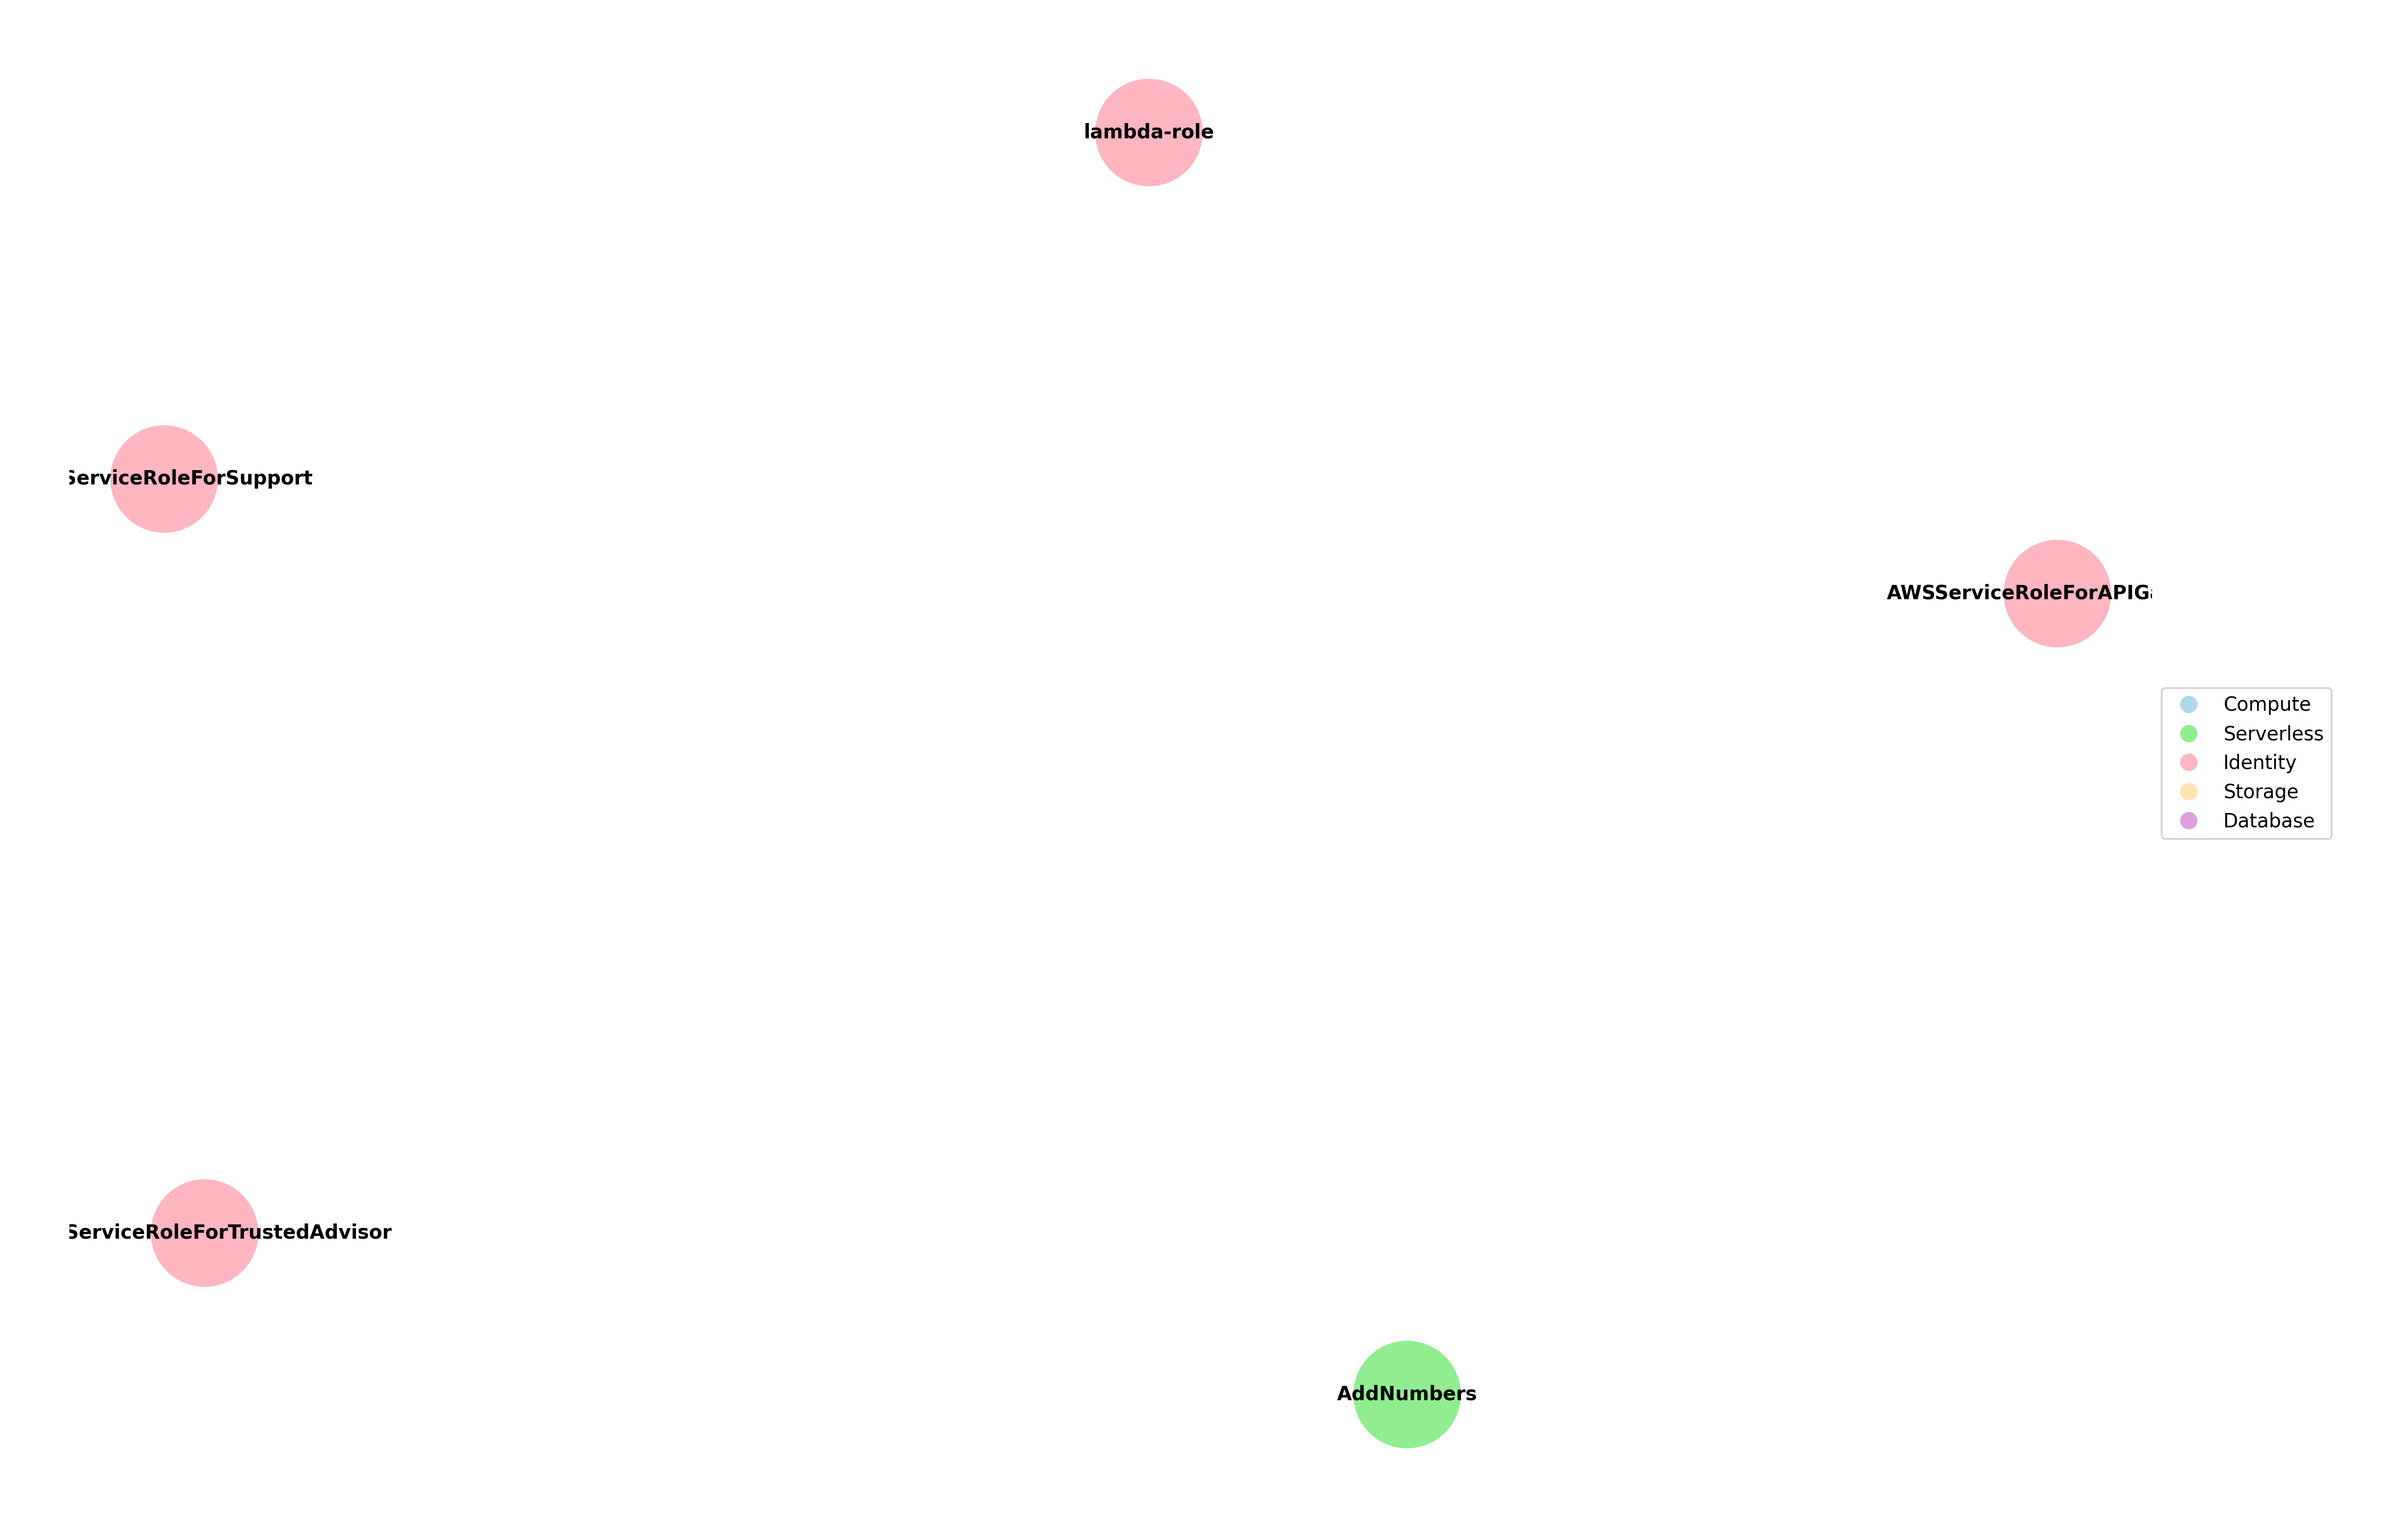
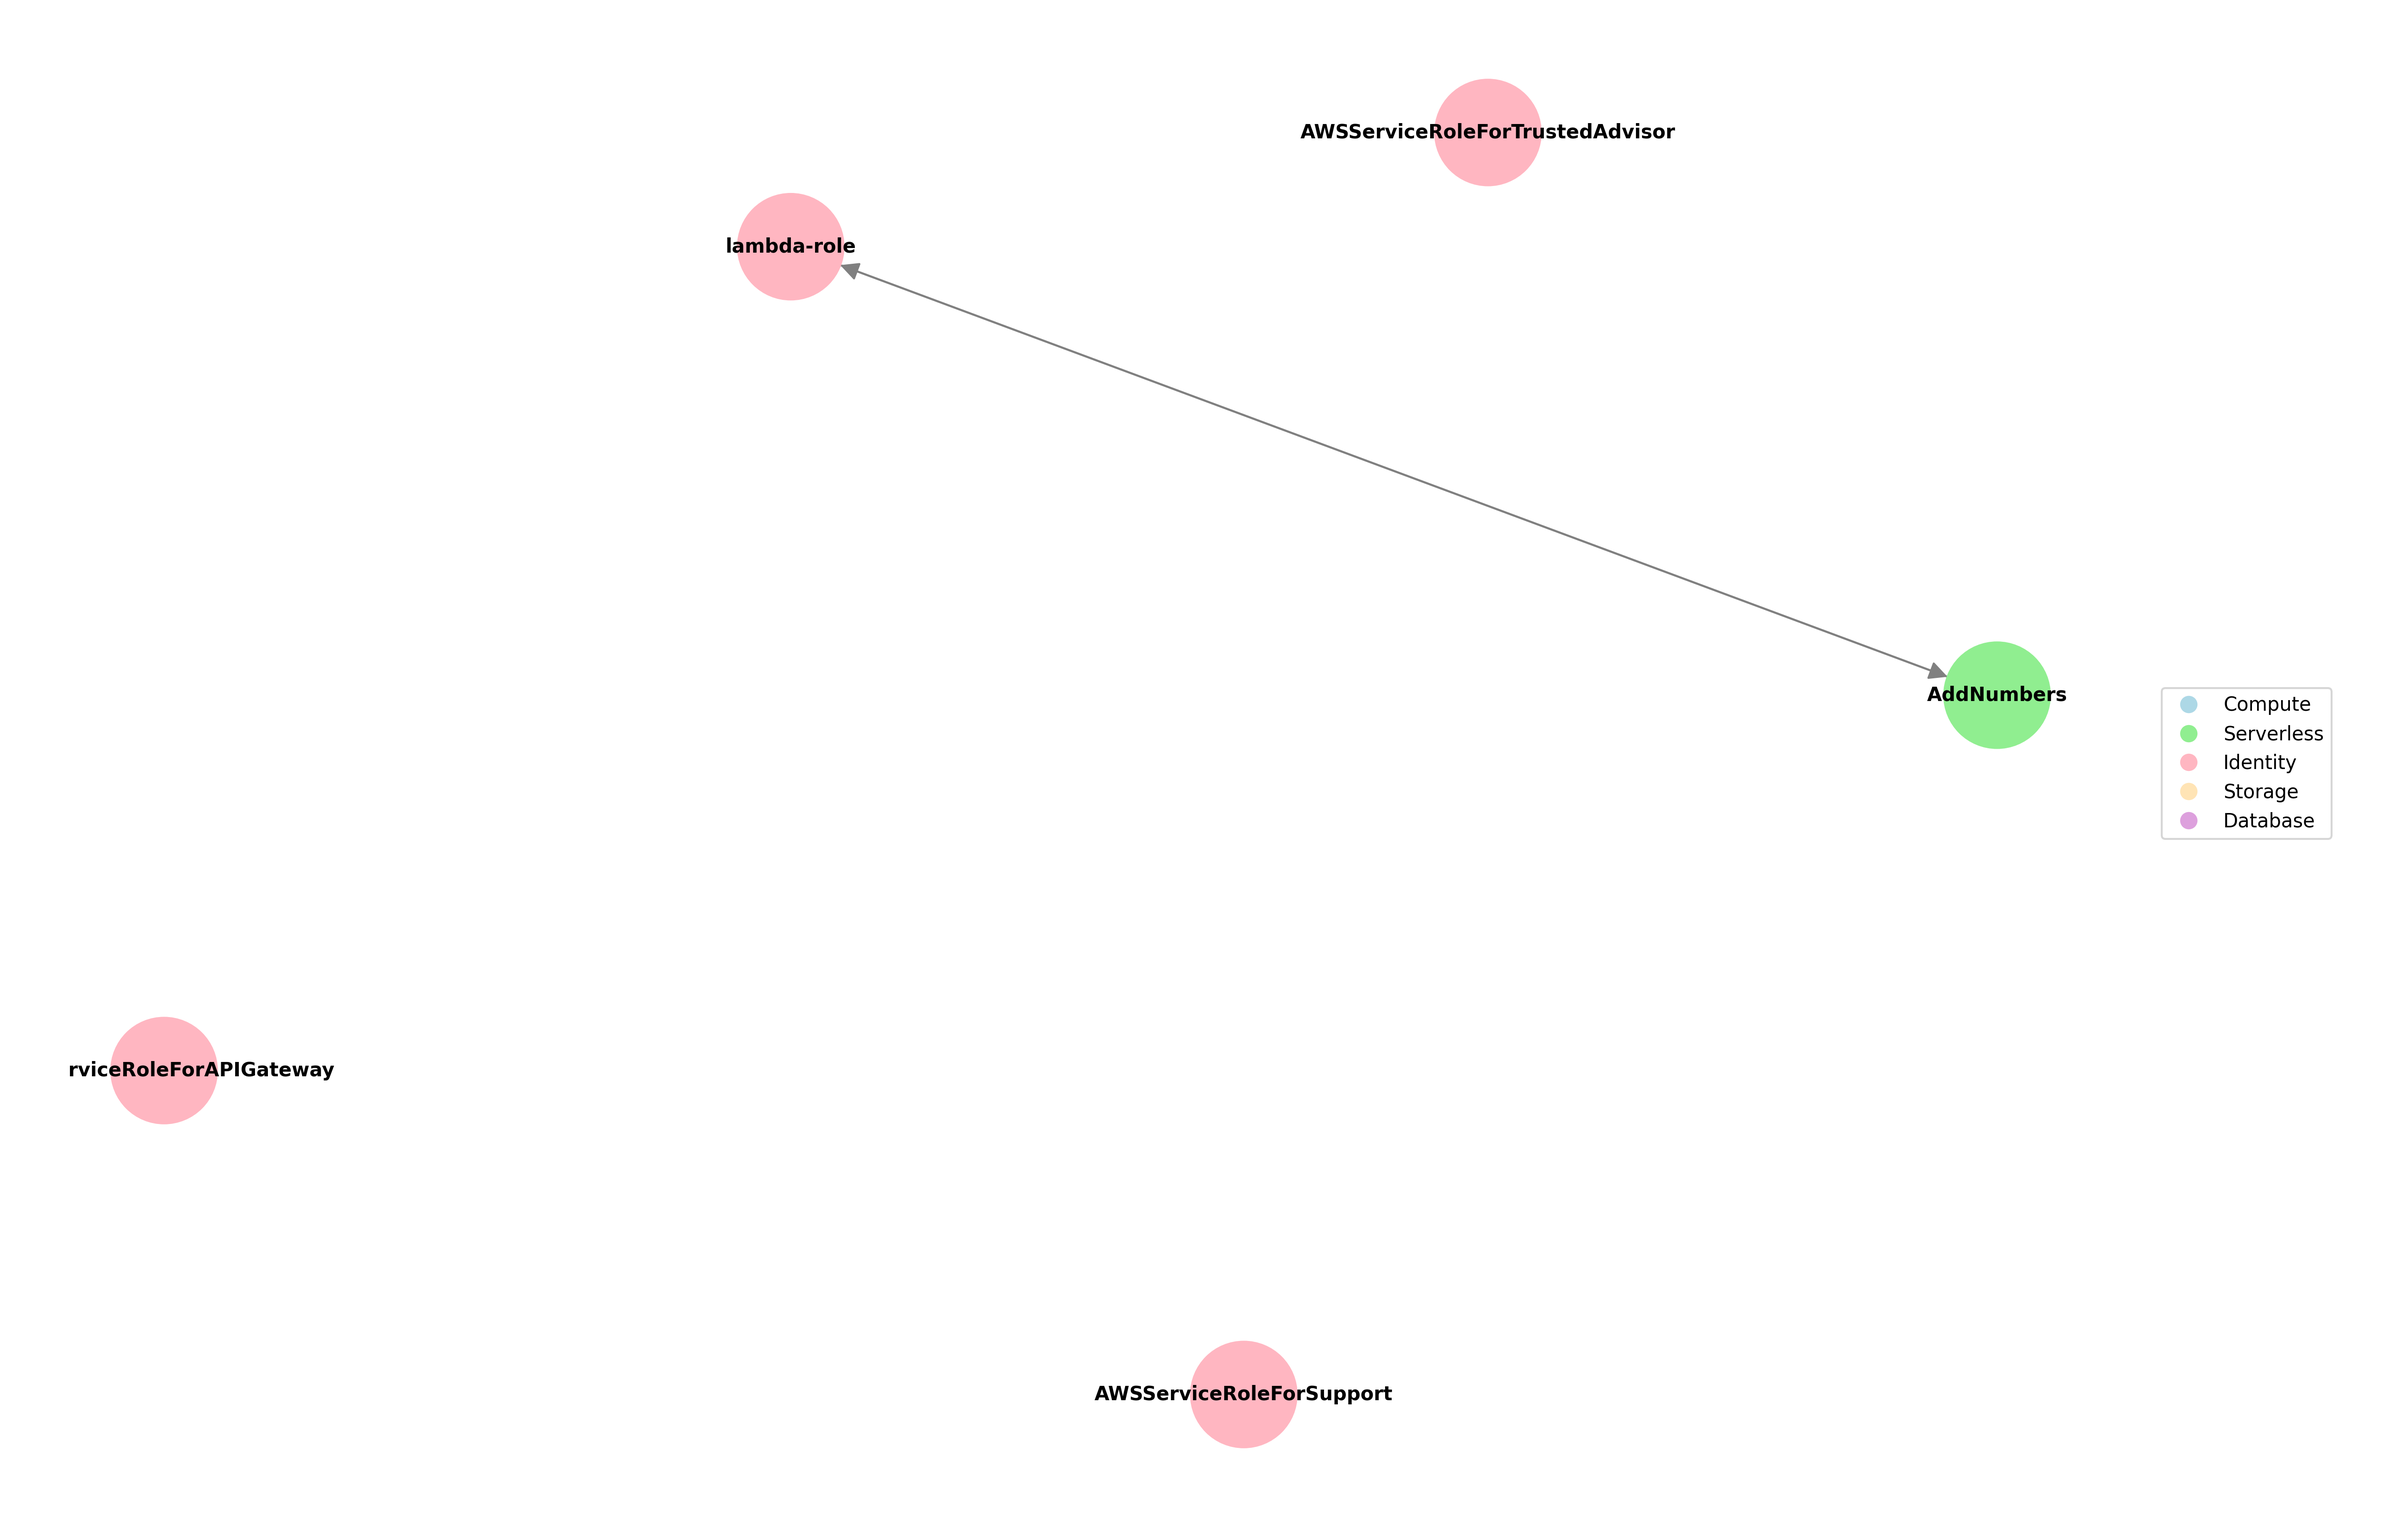
feat: fixed some errors

diff --git a/badal/badal.py b/badal/badal.py
@@ -77,6 +77,74 @@ class AWSScanner(CloudScanner):
         except Exception as e:
             logger.error(f"AWS init failed: {str(e)}")
             raise
+    
+    def _get_dependent_resources(self, resource: CloudResource) -> Set[str]:
+        deps = set()
+        try:
+            if resource.type == ResourceType.IDENTITY:
+                lambda_paginator = self.lambda_client.get_paginator('list_functions')
+                for page in lambda_paginator.paginate():
+                    for func in page['Functions']:
+                        if func.get('Role') == resource.id:
+                            deps.add(func['FunctionArn'])
+                ec2_paginator = self.ec2_client.get_paginator('describe_instances')
+                for page in ec2_paginator.paginate():
+                    for reservation in page['Reservations']:
+                        for instance in reservation['Instances']:
+                            if instance.get('IamInstanceProfile', {}).get('Arn', '').startswith(resource.id):
+                                deps.add(instance['InstanceId'])
+        except Exception as e:
+            logger.error(f"Reverse dependency lookup error: {str(e)}")
+        return deps
+
+    def _get_ec2_dependencies(self, instance_id: str) -> Set[str]:
+        dependencies = set()
+        try:
+            instance = self.ec2_client.describe_instances(InstanceIds=[instance_id])['Reservations'][0]['Instances'][0]
+            if 'VpcId' in instance:
+                dependencies.add(instance['VpcId'])
+            for sg in instance.get('SecurityGroups', []):
+                dependencies.add(sg['GroupId'])
+            if 'SubnetId' in instance:
+                dependencies.add(instance['SubnetId'])
+        except Exception as e:
+            logger.error(f"EC2 dep error: {str(e)}")
+        return dependencies
+
+    def _get_lambda_dependencies(self, function_arn: str) -> Set[str]:
+        deps = set()
+        try:
+            func = self.lambda_client.get_function(FunctionName=function_arn)
+            config = func['Configuration']
+            if 'VpcConfig' in config:
+                deps.update(config['VpcConfig'].get('SubnetIds', []))
+                deps.update(config['VpcConfig'].get('SecurityGroupIds', []))
+            deps.update(layer['Arn'] for layer in config.get('Layers', []))
+            if 'Role' in config:
+                deps.add(config['Role'])
+        except Exception as e:
+            logger.error(f"Lambda dep error: {str(e)}")
+        return deps
+
+    def _get_iam_role_dependencies(self, role_name: str) -> Set[str]:
+        deps = set()
+        try:
+            inline_policies = self.iam_client.list_role_policies(RoleName=role_name)
+            deps.update(f"{role_name}/inline-policy/{p}" for p in inline_policies.get('PolicyNames', []))
+            managed_policies = self.iam_client.list_attached_role_policies(RoleName=role_name)
+            deps.update(p['PolicyArn'] for p in managed_policies.get('AttachedPolicies', []))
+        except Exception as e:
+            logger.error(f"IAM dep error: {str(e)}")
+        return deps
+
+    def _get_name_from_tags(self, tags: List[Dict]) -> str:
+        for tag in tags:
+            if tag['Key'].lower() == 'name':
+                return tag['Value']
+        return 'unnamed'
+
+    def _convert_tags(self, aws_tags: List[Dict]) -> Dict:
+        return {tag['Key']: tag['Value'] for tag in aws_tags}
 
     def _initialize_clients(self):
         self.lambda_client = self.session.client('lambda')
